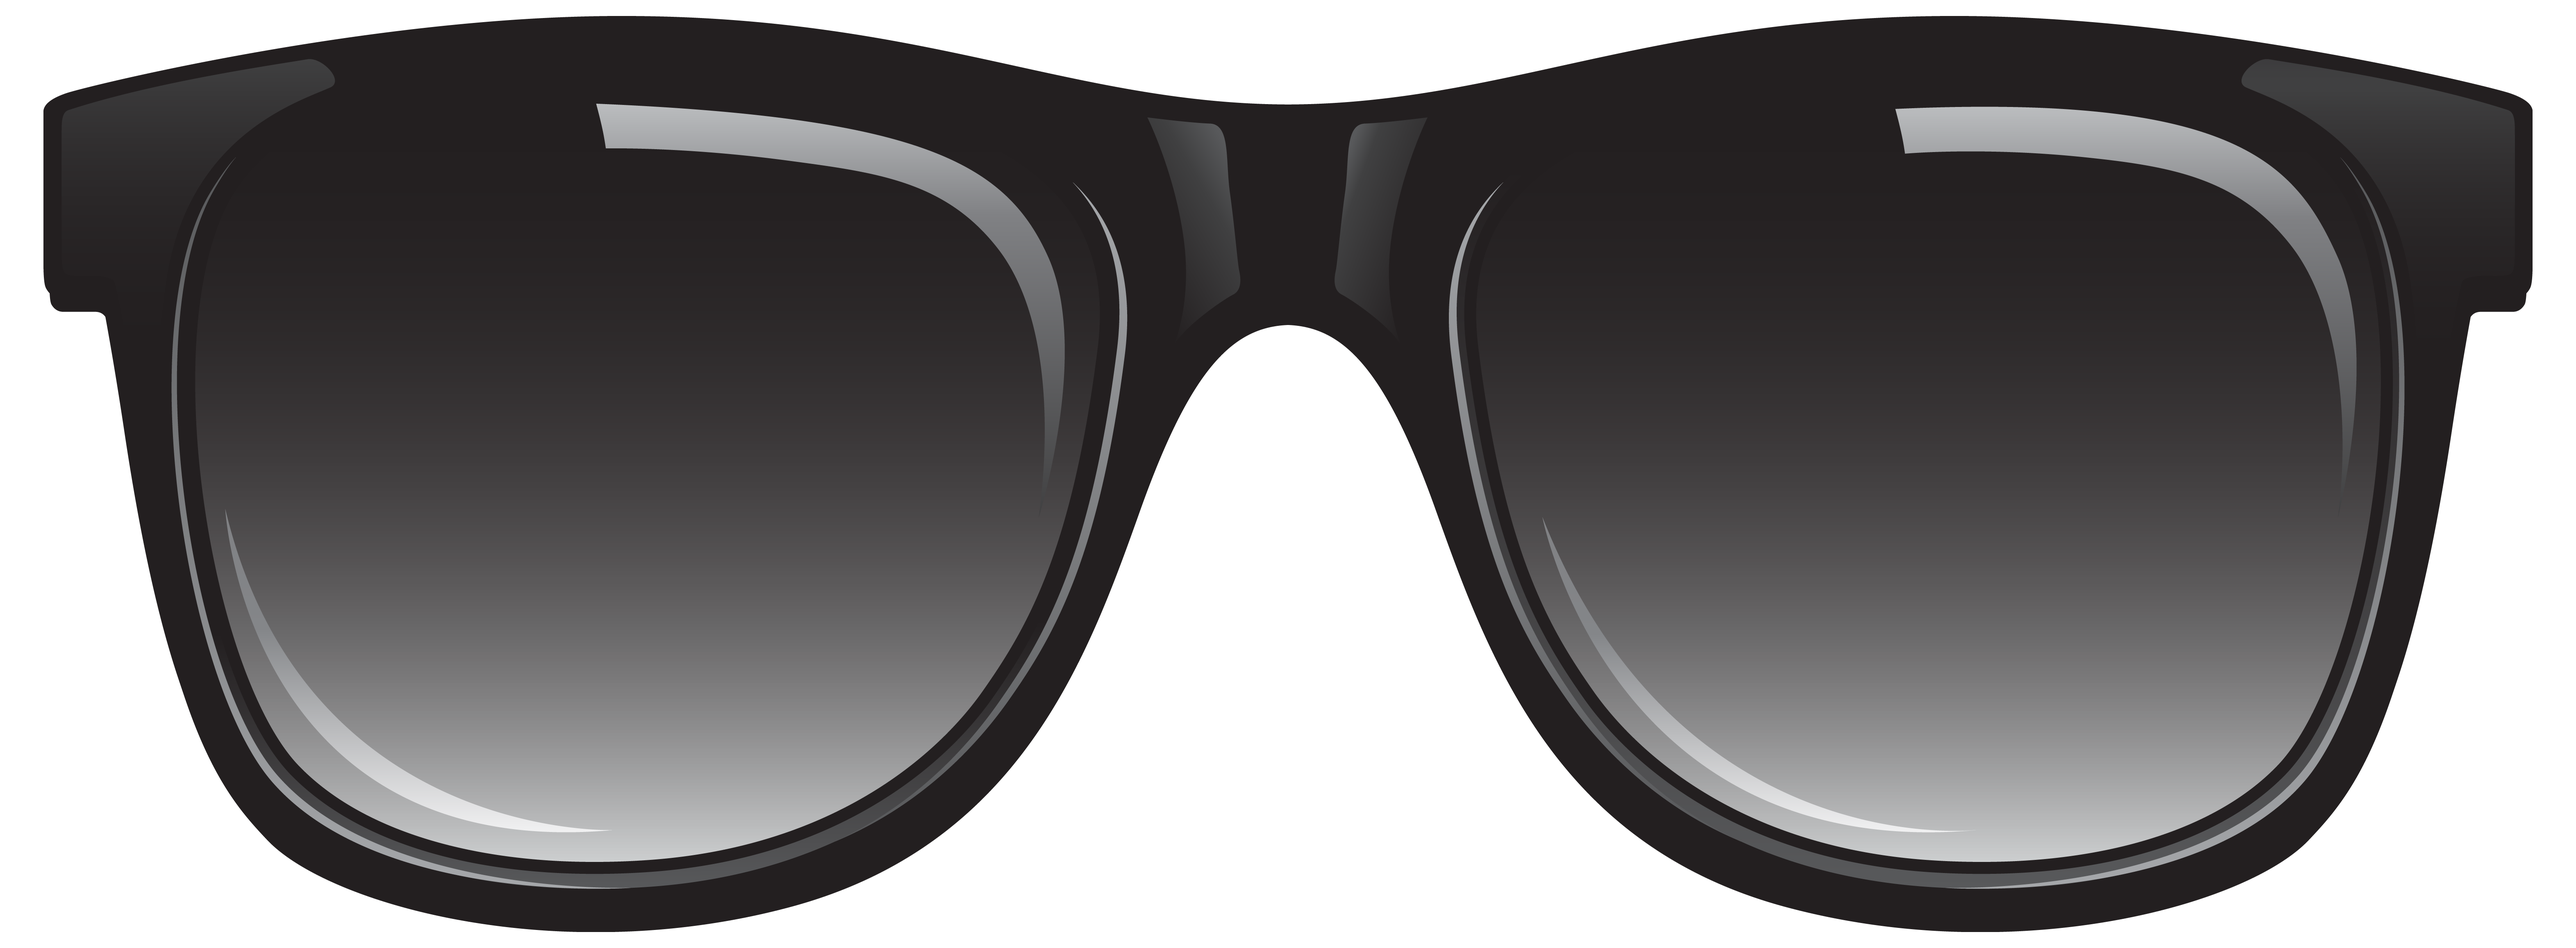
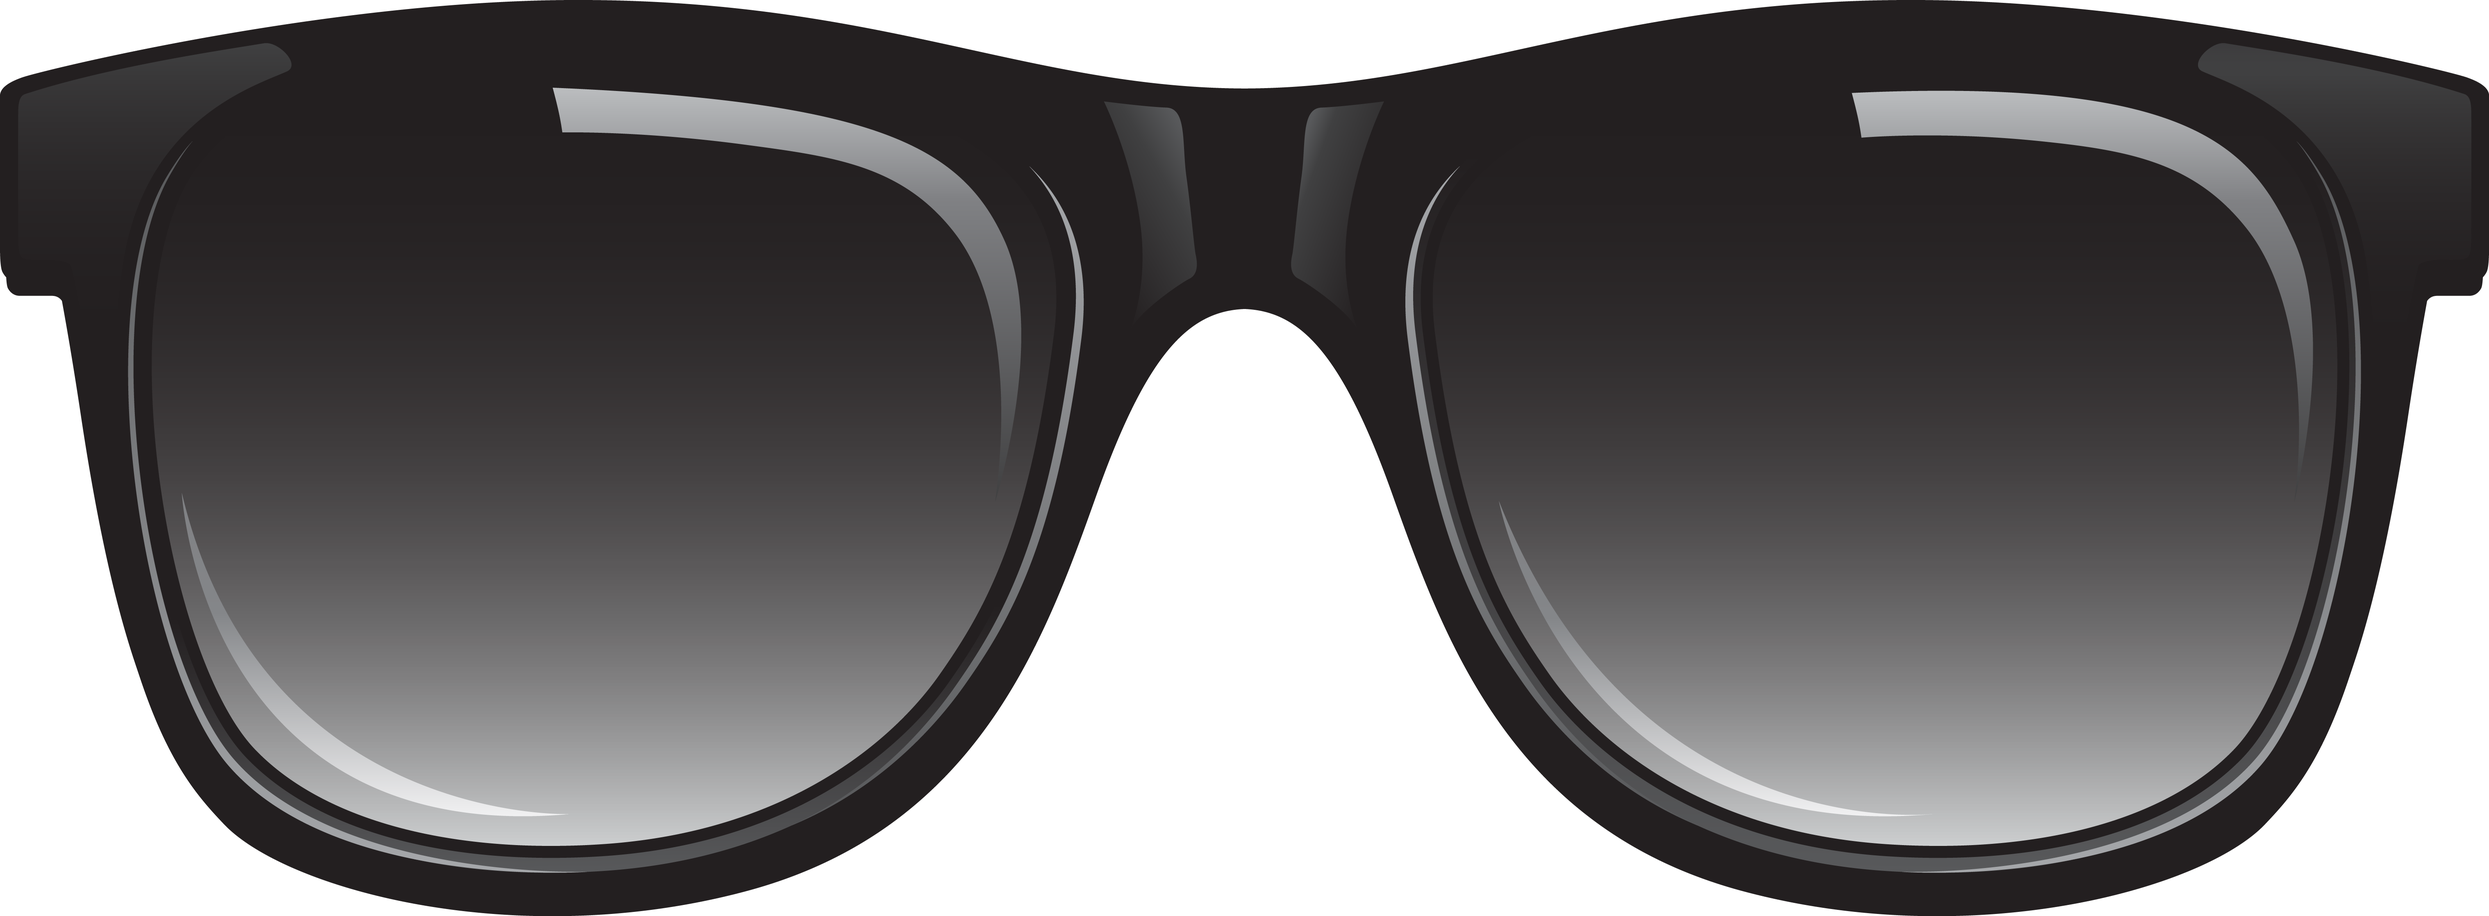
Truncated all accessory images and updated config

diff --git a/src/app/features/services/store.service.ts b/src/app/features/services/store.service.ts
@@ -11,7 +11,7 @@ export class StoreService {
     constructor(private playerService: PlayerService) { }
 
     init() {
-        this.store = {
+        this.store = new Store({
             accessories: [
                 {
                     key: 'goldenCrown',
@@ -19,8 +19,8 @@ export class StoreService {
                     imagePath: '../../../assets/images/avatar/accessories/crown-gold.png',
                     price: 230,
                     name: 'Golden Crown',
-                    imageTop: '12px',
-                    imageLeft: '42px',
+                    imageTop: '2px',
+                    imageLeft: '22px',
                     imageWidth: '107px'
                 },
                 {
@@ -29,8 +29,8 @@ export class StoreService {
                     imagePath: '../../../assets/images/avatar/accessories/funny-glasses.png',
                     price: 2340,
                     name: 'Funny Mask',
-                    imageTop: '95px',
-                    imageLeft: '48px',
+                    imageTop: '85px',
+                    imageLeft: '28px',
                     imageWidth: '100px'
                 },
                 {
@@ -39,8 +39,8 @@ export class StoreService {
                     imagePath: '../../../assets/images/avatar/accessories/hair-bow-rainbow.png',
                     price: 2110,
                     name: 'Rainbow Bow',
-                    imageTop: '20px',
-                    imageLeft: '90px',
+                    imageTop: '10px',
+                    imageLeft: '70px',
                     imageWidth: '90px',
                 },
                 {
@@ -49,8 +49,8 @@ export class StoreService {
                     imagePath: '../../../assets/images/avatar/accessories/heart-glasses.png',
                     price: 220,
                     name: 'Cute Glasses',
-                    imageTop: '80px',
-                    imageLeft: '43px',
+                    imageTop: '90px',
+                    imageLeft: '23px',
                     imageWidth: '110px'
                 },
                 {
@@ -68,8 +68,8 @@ export class StoreService {
                     imagePath: '../../../assets/images/avatar/accessories/rainbow-heart-glasses.png',
                     price: 20,
                     name: 'Really Cute Glasses',
-                    imageTop: '100px',
-                    imageLeft: '43px',
+                    imageTop: '90px',
+                    imageLeft: '23px',
                     imageWidth: '110px'
                 },
                 {
@@ -78,8 +78,8 @@ export class StoreService {
                     imagePath: '../../../assets/images/avatar/accessories/sunglasses.png',
                     price: 20,
                     name: 'Cool Shades',
-                    imageTop: '109px',
-                    imageLeft: '43px',
+                    imageTop: '99px',
+                    imageLeft: '23px',
                     imageWidth: '110px'
                 },
                 {
@@ -88,8 +88,8 @@ export class StoreService {
                     imagePath: '../../../assets/images/avatar/accessories/sunglasses-aviator.png',
                     price: 20,
                     name: 'Shades',
-                    imageTop: '65px',
-                    imageLeft: '42px',
+                    imageTop: '95px',
+                    imageLeft: '22px',
                     imageWidth: '110px'
                 },
                 {
@@ -98,8 +98,8 @@ export class StoreService {
                     imagePath: '../../../assets/images/avatar/accessories/sunglasses-swirls.png',
                     price: 20,
                     name: 'Harry Potter Glasses',
-                    imageTop: '107px',
-                    imageLeft: '42px',
+                    imageTop: '97px',
+                    imageLeft: '22px',
                     imageWidth: '110px'
                 },
                 {
@@ -108,8 +108,8 @@ export class StoreService {
                     imagePath: '../../../assets/images/avatar/accessories/unicorn-horn.png',
                     price: 20,
                     name: 'Extremely Cute Unicorn Horn',
-                    imageTop: '-20px',
-                    imageLeft: '82px',
+                    imageTop: '-30px',
+                    imageLeft: '62px',
                     imageWidth: '35px'
                 },
                 {
@@ -118,8 +118,8 @@ export class StoreService {
                     imagePath: '../../../assets/images/avatar/accessories/donut.png',
                     price: 20,
                     name: 'Donut Pet',
-                    imageTop: '133px',
-                    imageLeft: '105px',
+                    imageTop: '123px',
+                    imageLeft: '85px',
                     imageWidth: '100px'
                 },
             ],
@@ -135,7 +135,7 @@ export class StoreService {
                     imagePath: '../../../assets/images/avatar/skins/nyan-cat.gif',
                 },
             ]
-        };
+        });
 
         this.resolvePurchases(this.playerService.player);
     }

diff --git a/src/app/features/game/game.component.ts b/src/app/features/game/game.component.ts
@@ -1,9 +1,10 @@
 import { Component, OnInit } from '@angular/core';
-import { SessionStorageService, SessionStorageKeys } from '../../core/storage/session-storage.service';
 
 import { Game, GameState } from '../models/game.model';
 import { Player } from '../models/player.model';
 import { PlayerService } from 'src/app/features/services/player.service';
+import { StoreService } from '../services/store.service';
+import { Store, Accessory } from '../models/store.model';
 
 const PADDLE_HEIGHT = 20;
 const PADDLE_WIDTH = 175;
@@ -24,6 +25,7 @@ export class GameComponent implements OnInit {
   canvas: HTMLCanvasElement;
   ctx: CanvasRenderingContext2D;
   ball: HTMLImageElement;
+  activeAccessories: Accessory[];
   bricks = [];
   ballRadius = 15;
   x: number;
@@ -36,13 +38,14 @@ export class GameComponent implements OnInit {
   brickRowCount: number;
   game: Game;
   player: Player;
+  store: Store;
   rainbow = ['#80F31F', '#A5DE0B', '#C7C101', '#E39E03', '#F6780F', '#FE5326', '#FB3244', '#ED1868', '#D5078E', '#B601B3', '#9106D3', '#6B16EC', '#472FFA', '#2850FE', '#1175F7', '#039BE5', '#01BECA', '#0ADCA8'];
   isInitialized = false;
   coinValueChanged = false;
   GameState = GameState;
 
   //////////////////////////////////////////////////////////////////
-  constructor(private playerService: PlayerService) { }
+  constructor(private playerService: PlayerService, private storeService: StoreService) { }
 
   ngOnInit(): void {
     this.canvas = document.getElementById('myCanvas') as HTMLCanvasElement;
@@ -50,12 +53,16 @@ export class GameComponent implements OnInit {
     this.paddleX = (this.canvas.width - PADDLE_WIDTH) / 2;
     this.brickRowCount = 11;  // 11
     this.player = this.playerService.player;
+    this.store = this.storeService.store;
 
     this.initGame();
   }
 
   play() {
     this.ball = document.getElementById('catHead') as HTMLImageElement;
+
+    this.activeAccessories = [...this.store.accessories.filter(accessory => accessory.isActive)];
+    this.activeAccessories.forEach(accessory => accessory.domElement = document.getElementById('accessory-' + accessory.key) as HTMLImageElement);
 
     this.x = this.canvas.width / 2;
     this.y = this.canvas.height - 60;
@@ -171,6 +178,15 @@ export class GameComponent implements OnInit {
 
   drawBall() {
     this.ctx.drawImage(this.ball, 0, 0, 437, 516, this.x, this.y, 60, 60);
+    this.activeAccessories.forEach(accessory => {
+      // 1) Truncate out transparent pixels from each accessory (and skin)
+      // 2) Add width/height to accessory class and input those values for each.
+      // 3) In the avatar, create a nested DOM that means we can put the cat/skin at 0,0. What this gives us 
+      //    is when we paint the ball, we will be using the same offset.
+      // 4) In the next line, use the same top, left offset that is used by the avatar component.
+      // 5) I'm not sure about the target width/height???? dw, dh.
+      this.ctx.drawImage(accessory.domElement, 0, 0, 437, 516, this.x, this.y, 60, 60);
+    })
     return;
   }
 

diff --git a/src/app/shared/avatar/avatar.component.html b/src/app/shared/avatar/avatar.component.html
@@ -1,8 +1,11 @@
 <div *ngIf="player" class="avatar">
-  <img id="catHead" class="cat-head" [src]="player.avatar.skin">
-  <span *ngFor="let accessory of store.accessories" class="accessory">
-    <img *ngIf="accessory.isActive" 
-         [src]="accessory.imagePath" 
-         [ngStyle]="{'top': accessory.imageTop, 'left': accessory.imageLeft, 'width': accessory.imageWidth}">
-  </span>
+  <div class="inner-avatar">
+    <img id="catHead" class="cat-head" [src]="player.avatar.skin">
+    <span *ngFor="let accessory of store.accessories" class="accessory">
+      <img *ngIf="accessory.isActive" 
+          [attr.id]="'accessory-' + accessory.key"
+          [src]="accessory.imagePath" 
+          [ngStyle]="{'top': accessory.imageTop, 'left': accessory.imageLeft, 'width': accessory.imageWidth}">
+    </span>
+  </div>
 </div>

diff --git a/src/app/features/models/store.model.ts b/src/app/features/models/store.model.ts
@@ -1,9 +1,14 @@
 export class Store {
     accessories: Accessory[];
     skins: Skin[];
+
+    constructor(data: Store) {
+        Object.assign(this, data);
+    }
+
 }
 
-export class Accessory {
+export interface Accessory {
     key: string;
     category: ItemCategory;
     imagePath: string;
@@ -15,6 +20,7 @@ export class Accessory {
     purchased?: boolean;
     confirmPurchase?: boolean;
     isActive?: boolean;
+    domElement?: HTMLImageElement;
 }
 
 export class ItemCategory {
@@ -24,7 +30,7 @@ export class ItemCategory {
     static ultraRare = 'Ultra Rare';
 }
 
-export class Skin {
+export interface Skin {
     key: string;
     name: string;
     imagePath: string;

diff --git a/src/app/shared/avatar/avatar.component.scss b/src/app/shared/avatar/avatar.component.scss
@@ -1,19 +1,22 @@
 .avatar {
-  position: relative;
   border: 2px solid black;
   border-radius: 10px;
   padding: 10px 20px;
   background: #d6d6d6bf;
   width: 150px;
 
-  .cat-head {
-    width: 150px;
-  }
+  .inner-avatar {
+    position: relative;
 
-  .accessory {
-    img {
-      position: absolute;
-      width: 100px;
+    .cat-head {
+      width: 150px;
+    }
+
+    .accessory {
+      img {
+        position: absolute;
+        width: 100px;
+      }
     }
   }
 }

diff --git a/src/app/features/models/avatar.model.ts b/src/app/features/models/avatar.model.ts
@@ -12,6 +12,11 @@ export class Avatar {
     }
 }
 
+/** 
+ * This is a watered down representation of the avatar b/c we store this in long term storage in the browser.
+ * Therefore we only store a key and indicator if the accessory it active (shown on the avatar).
+ * We want to make sure that the information from the store is the only place that contains all of the details about each accessory.
+ */
 export class AvatarAccessory {
     key: string;
     isActive: boolean;
